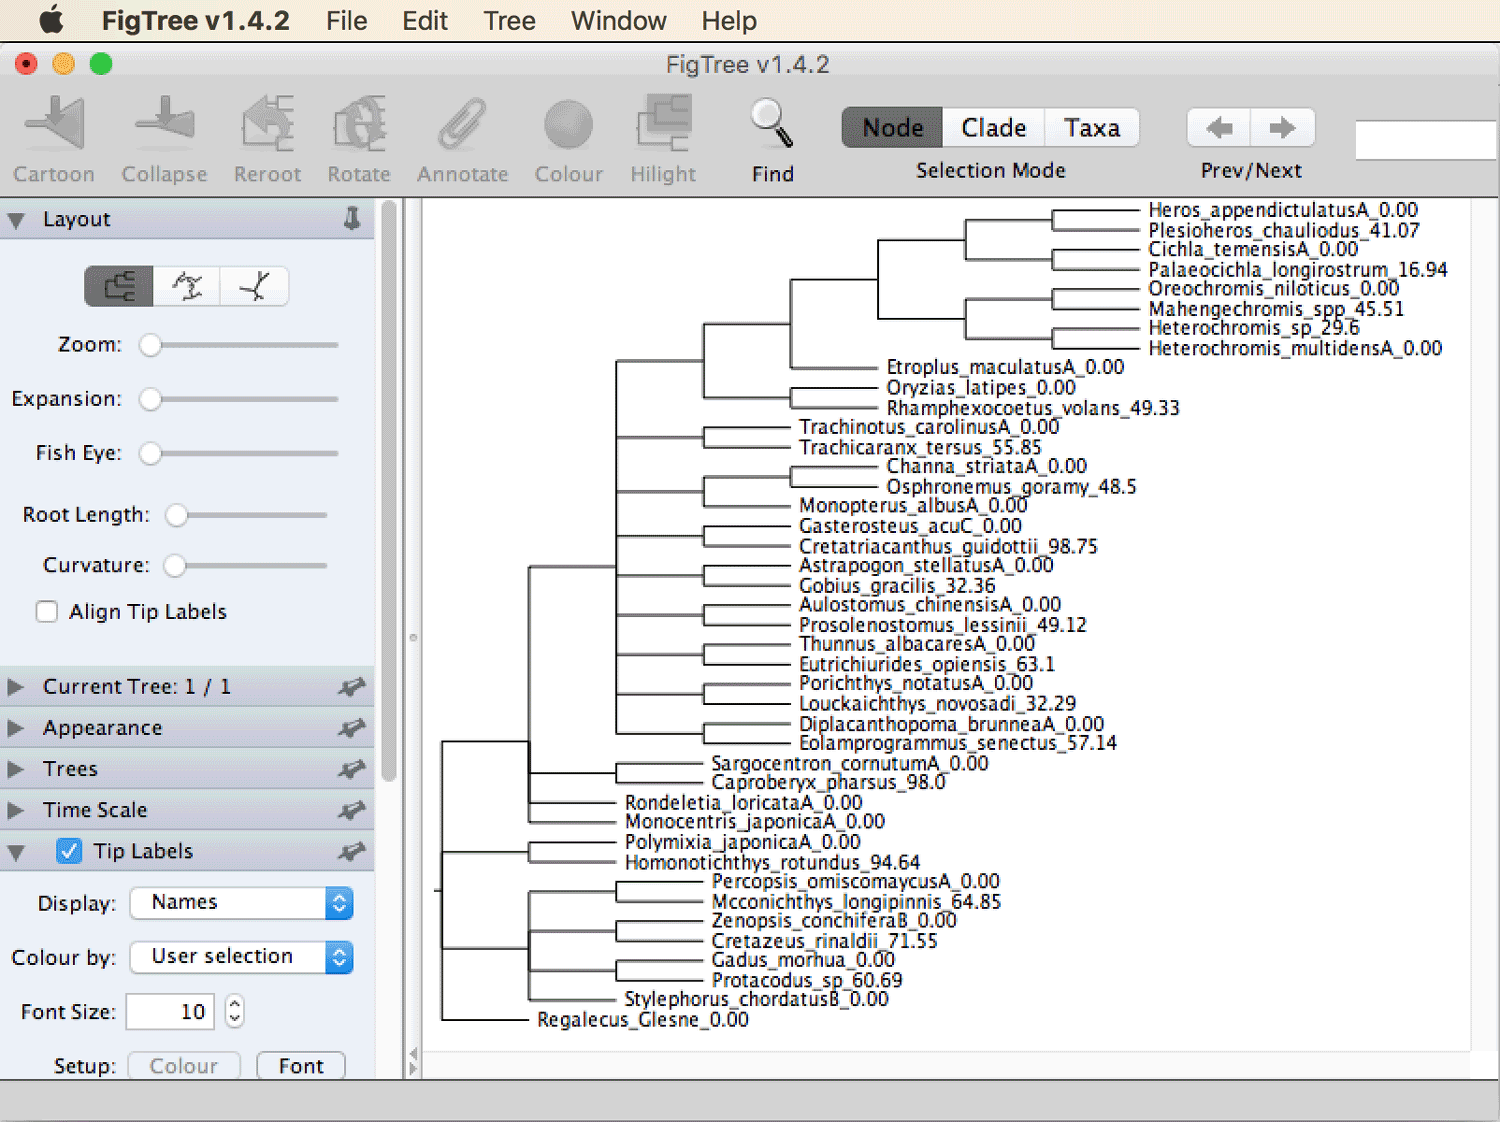
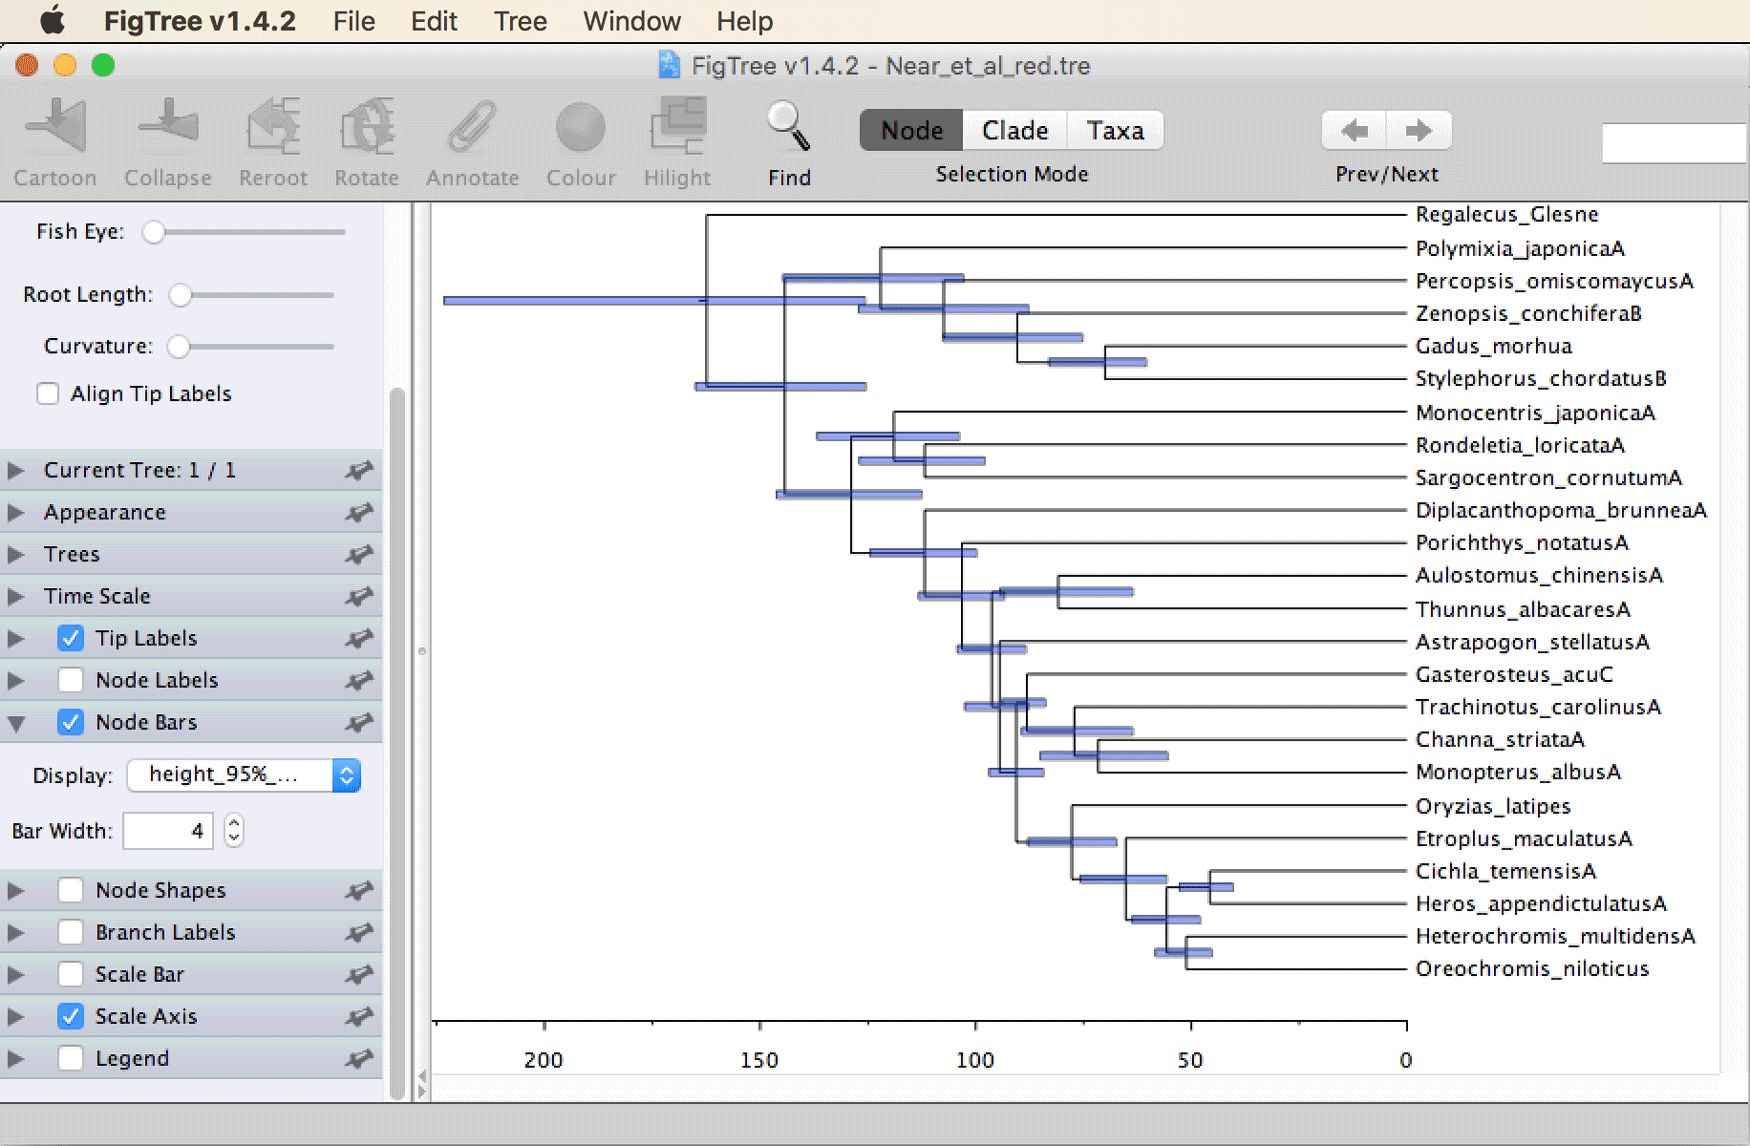
Added FigTree part

diff --git a/README.md b/README.md
@@ -481,12 +481,26 @@ These should look similar to those shown in the screenshot below.
 
 While analysis with Tracer has been sufficient to inspect the run stationarity and parameter estimates, we might still want to analyze and visualize the inferred tree itself. One useful method to visualize the entire tree distribution is Densitree {% cite BouckaertHeled2014 --file CladeAge-Tutorial/master-refs.bib %}; this software is distributed together with BEAST2. Alternatively, a single summary tree can be generated with TreeAnnotator as described below.
 
-> Open TreeAnnotator.
+> Open TreeAnnotator. Set the burn-in percentage to 10% (recall that this was determined to be appropriate based on the MCMC trace for the posterior). As the target tree type, choose "Maximum clade credibility tree" from the drop-down menu, and select "Mean heights" as node heights. Select the `Near_et_al_red.trees` output file of BEAST2 analysis as input tree file, and name the output file `Near_et_al_red.tre`.
+
+The TreeAnnotator window should then look as shown below.
 
 <figure>
 	<a id="fig:treeannotator1"></a>
 	<img style="width:60%;" src="figures/treeannotator1.png" alt="TreeAnnotator">
 	<figcaption>Figure 27: Generating a summary tree with TreeAnnotator.</figcaption>
+</figure>
+
+After clicking "OK", TreeAnnotator will write the maximum-clade-credibility tree to file `Near_et_al_red.tre`. This tree can now be visualized with FigTree.
+
+> Open file `Near_et_al_red.tre` in FigTree. To add a time scale, set a tick next to "Scale Axis" in the menu on the left, then click the triangle next to it. Remove the tick next to "Show grid" and set a tick next to "Reverse axis". To illustrate the uncertainty in divergence-time estimates, select "height_95%_HPD" from the drop-down menu in the "Node Bars" panel.
+
+The tree should then be shown as in the screenshot below.
+
+<figure>
+	<a id="fig:figtree1"></a>
+	<img style="width:60%;" src="figures/figtree1.png" alt="FigTree">
+	<figcaption>Figure 28: Visualizing the summary tree with FigTree.</figcaption>
 </figure>
 
 	
